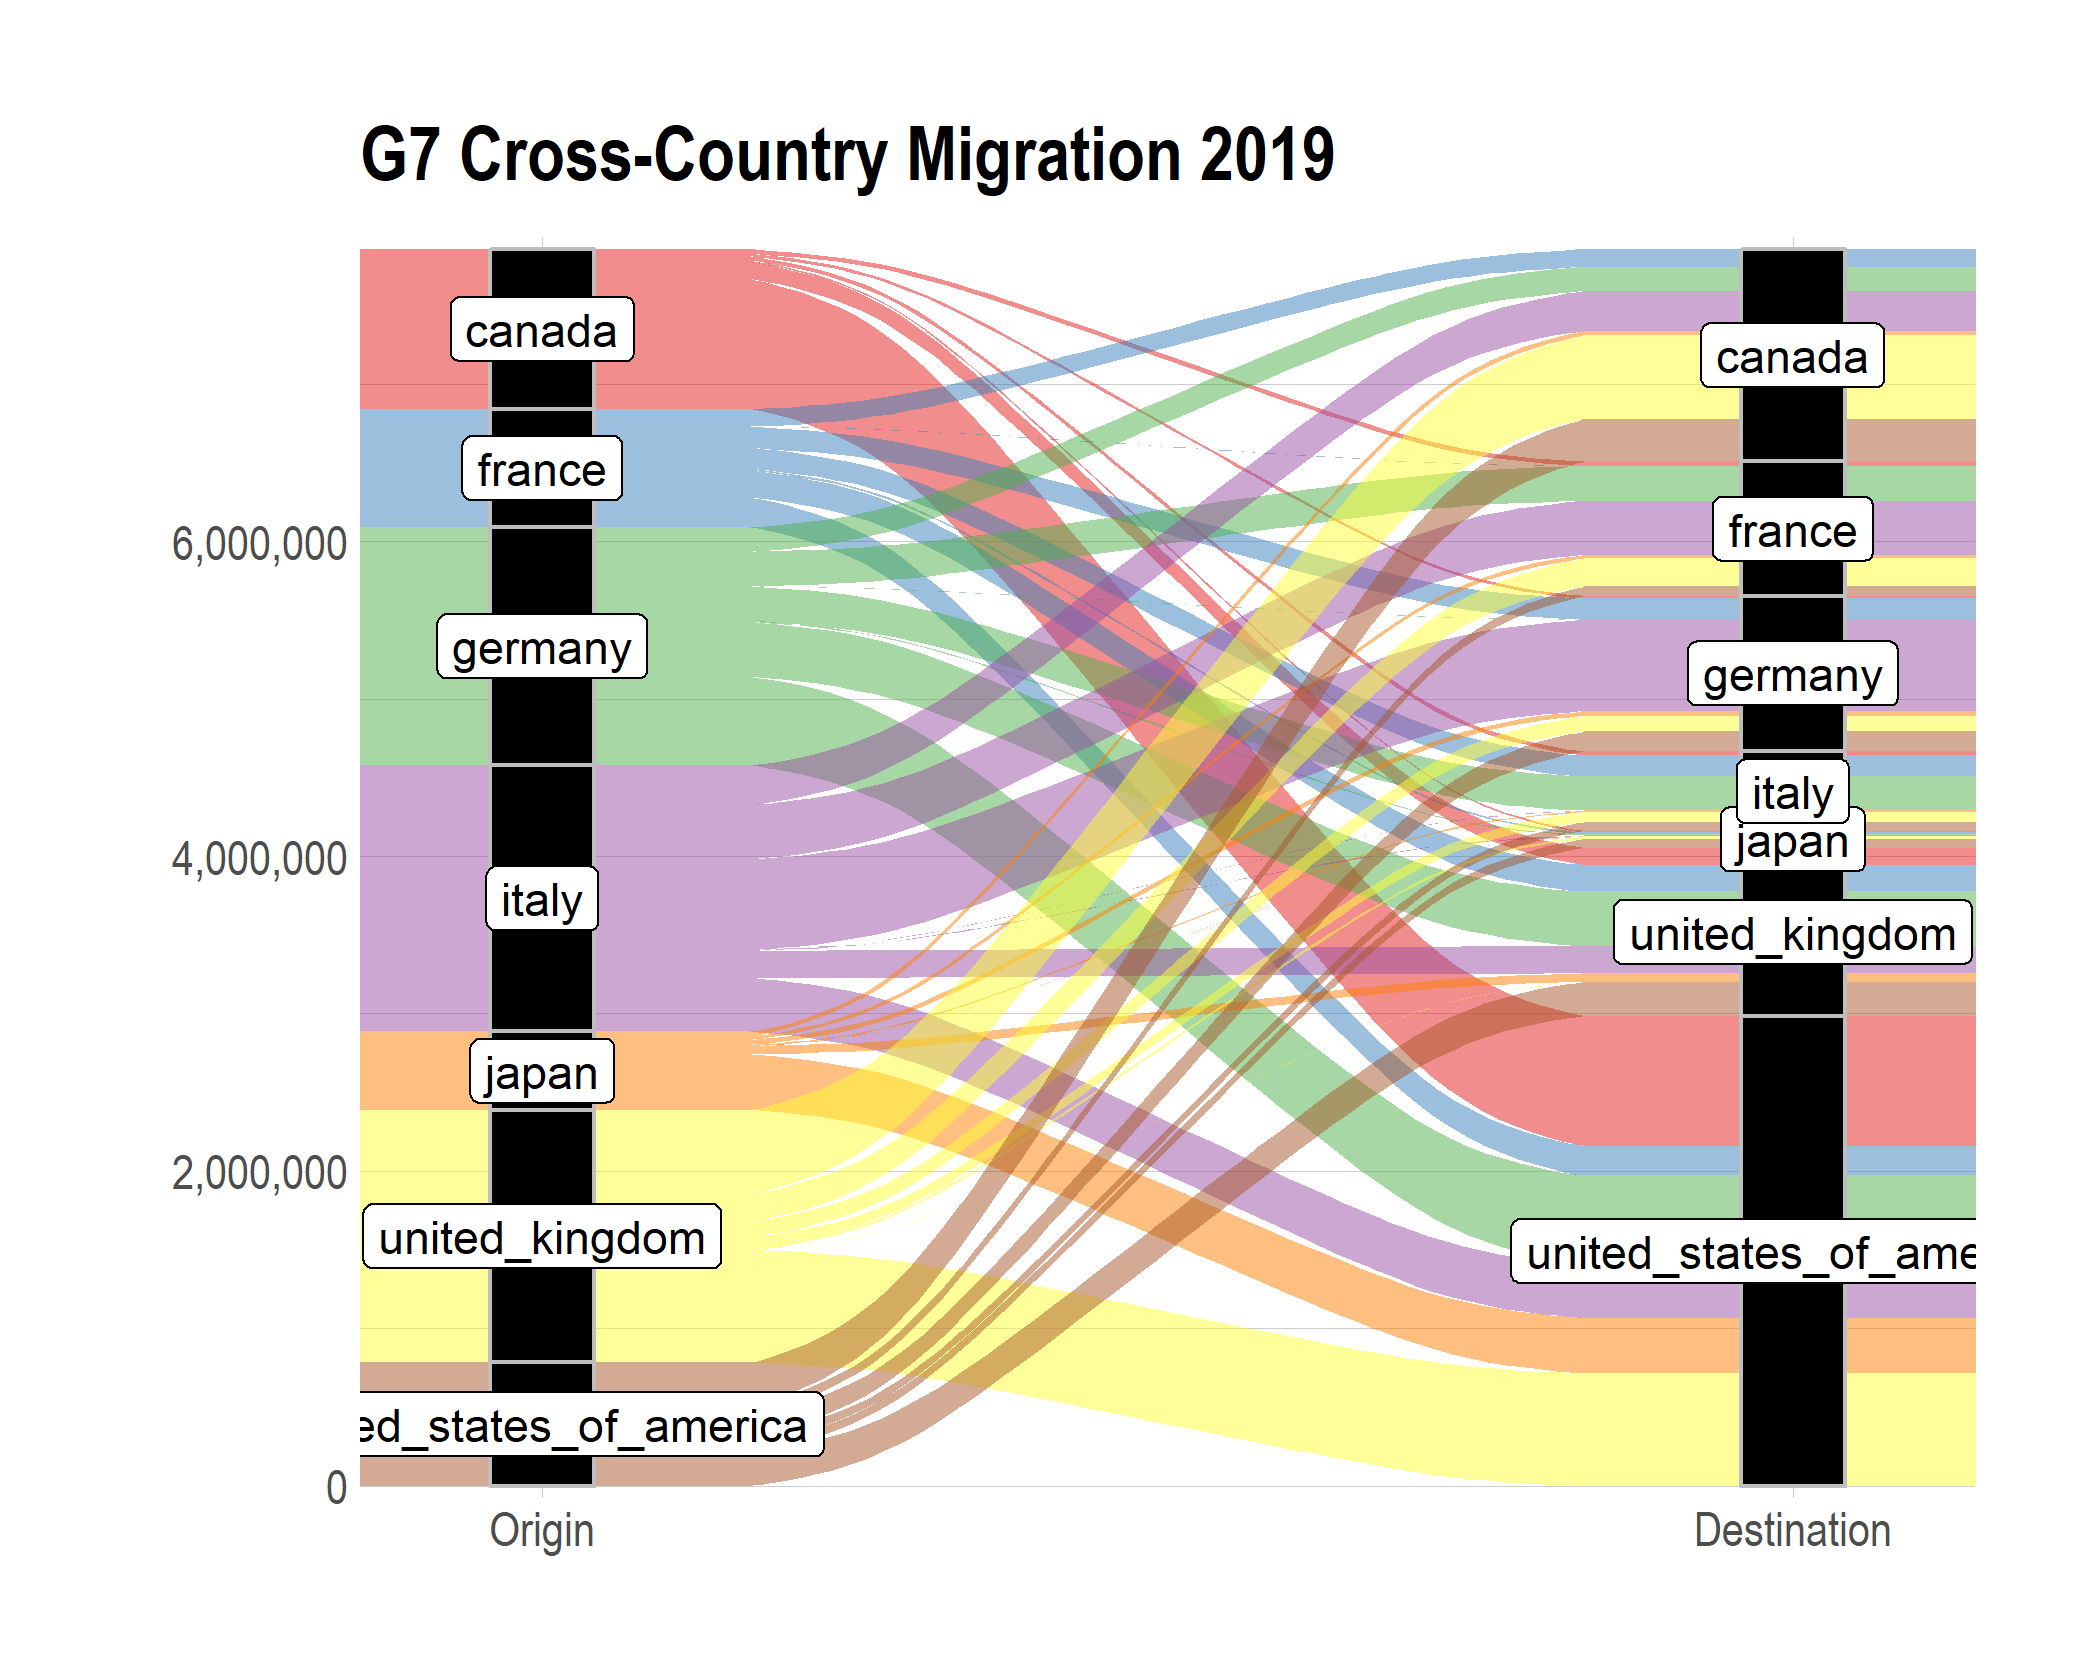
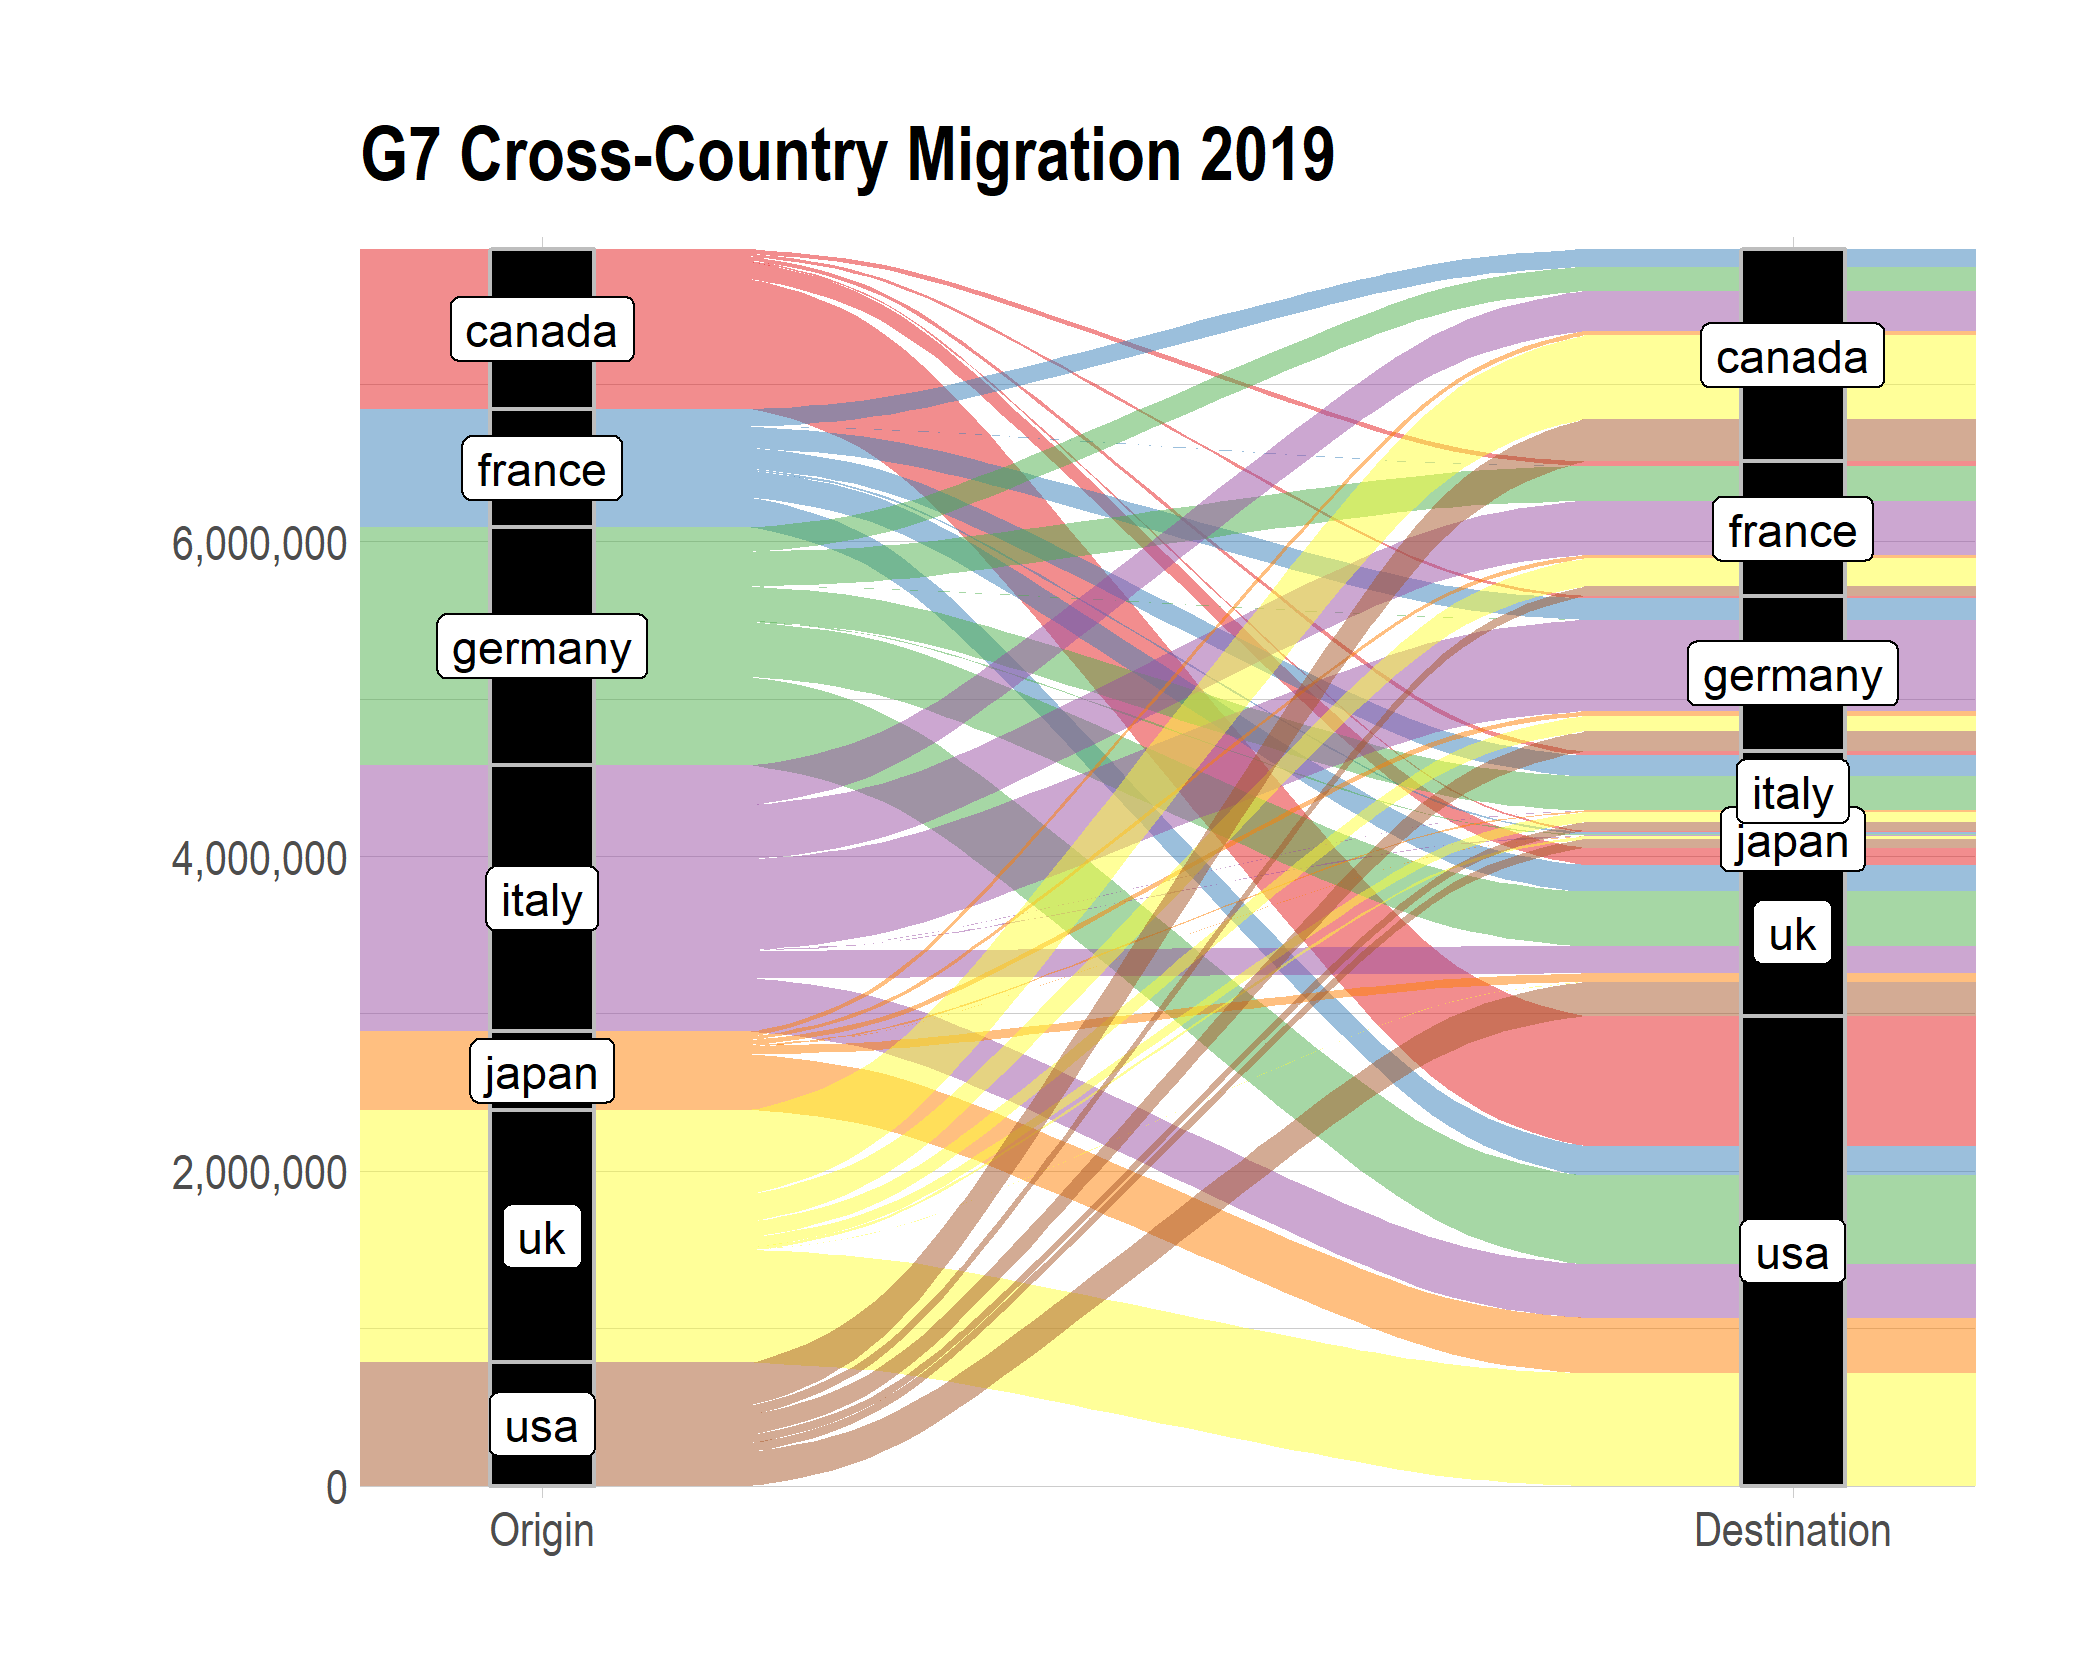
Adds heatmap

diff --git a/u1_d04-visualizing/u1_d04-visualizing.html b/u1_d04-visualizing/u1_d04-visualizing.html
@@ -4,7 +4,7 @@
     <title>Visualizing in the Tidyverse</title>
     <meta charset="utf-8" />
     <meta name="author" content="Giora Simchoni" />
-    <meta name="date" content="2019-12-13" />
+    <meta name="date" content="2019-12-14" />
     <head>
       <link rel="icon" href="../DSApps_logo.jpg" type="image/jpg"> 
       <link rel="shortcut icon" href="../DSApps_logo.jpg" type="image/jpg">
@@ -30,7 +30,7 @@ class: title-slide
 #### `gsimchoni@gmail.com and add #dsapps in subject`
 
 ### Stat. and OR Department, TAU
-### 2019-12-13
+### 2019-12-14
 
 ---
 
@@ -566,7 +566,7 @@ p2 &lt;- okcupid %&gt;%
        caption = "Income is presented as log10(Income)") +
   theme_ipsum()
 
-p2 + geom_histogram()
+*p2 + geom_histogram()
 ```
 ---
 
@@ -599,7 +599,7 @@ p3 &lt;- okcupid %&gt;%
   scale_x_discrete(labels = c("women", "men")) +
   theme_ipsum()
 
-p3 + geom_boxplot()
+*p3 + geom_boxplot()
 ```
 
 ---
@@ -693,7 +693,7 @@ okcupid %&gt;%
   mutate(orientation = recode(orientation, "gay" = "lgbt", "bisexual" = "lgbt"),
          religion = fct_relevel(religion2, count(okcupid, religion2, sort = TRUE)$religion2)) %&gt;%
 ggplot() +
-  geom_mosaic(aes(x = product(orientation, religion), fill=orientation)) +
+* geom_mosaic(aes(x = product(orientation, religion), fill=orientation)) +
   labs(x = "", y = "", title = "OkCupid: Orientation by Religion") +
   guides(fill=FALSE) +
   theme_ipsum() +
@@ -769,7 +769,7 @@ migration_long %&gt;%
   group_by(country_orig, country_dest) %&gt;%
   summarise(n_migrants = sum(n_migrants)) %&gt;%
   ggplot(aes(y = n_migrants, axis1 = country_orig, axis2 = country_dest)) +
-  geom_alluvium(aes(fill = country_orig)) +
+* geom_alluvium(aes(fill = country_orig)) +
   geom_stratum(width = 1/12, fill = "black", color = "grey") +
   geom_label(stat = "stratum", infer.label = TRUE) +
   scale_x_discrete(limits = c("Origin", "Destination"), expand = c(.05, .05)) +
@@ -786,6 +786,66 @@ migration_long %&gt;%
 ---
 
 ## Heatmap
+
+
+```r
+gender_age_height_drink &lt;- okcupid %&gt;%
+  mutate(age_group = case_when(
+    age &lt; 30 ~ "19-29",
+    age &lt; 40 ~ "30-39",
+    age &lt; 50 ~ "40-49",
+    age &lt; 60 ~ "50-59",
+    TRUE ~ "60+"),
+    height_group = case_when(
+      height_cm &lt; 150 ~ "149-",
+      height_cm &lt; 160 ~ "150-159",
+      height_cm &lt; 170 ~ "160-169",
+      height_cm &lt; 180 ~ "170-179",
+      height_cm &lt; 190 ~ "180-189",
+      TRUE ~ "190+")) %&gt;%
+  group_by(sex, age_group, height_group) %&gt;%
+  summarise(n = n(),
+            drinks = mean(drinks %in% c("often", "very often", "desperately")))
+```
+
+---
+
+
+```r
+gender_age_height_drink
+```
+
+```
+## # A tibble: 58 x 5
+## # Groups:   sex, age_group [10]
+##    sex   age_group height_group     n drinks
+##    &lt;chr&gt; &lt;chr&gt;     &lt;chr&gt;        &lt;int&gt;  &lt;dbl&gt;
+##  1 f     19-29     149-           163 0.0920
+##  2 f     19-29     150-159       1963 0.102 
+##  3 f     19-29     160-169       5620 0.110 
+##  4 f     19-29     170-179       3113 0.130 
+##  5 f     19-29     180-189        310 0.145 
+##  6 f     19-29     190+            19 0.474 
+##  7 f     30-39     149-            80 0.0625
+##  8 f     30-39     150-159       1293 0.0673
+##  9 f     30-39     160-169       4109 0.0810
+## 10 f     30-39     170-179       2231 0.0852
+## # ... with 48 more rows
+```
+
+---
+
+
+```r
+ggplot(gender_age_height_drink, aes(age_group, height_group, fill = drinks)) +
+* geom_tile() +
+  facet_wrap(. ~ sex, labeller = sex_labeller) +
+  labs(x = "Age", y = "Height", title = "OkCupid: %Reported Drinking by Age and Height") +
+  scale_fill_gradient(labels = percent_format(accuracy = 1)) +
+  theme_ipsum()
+```
+
+&lt;img src="images/Heatmap2-1.png" width="100%" /&gt;
 
 ---
 class: section-slide
